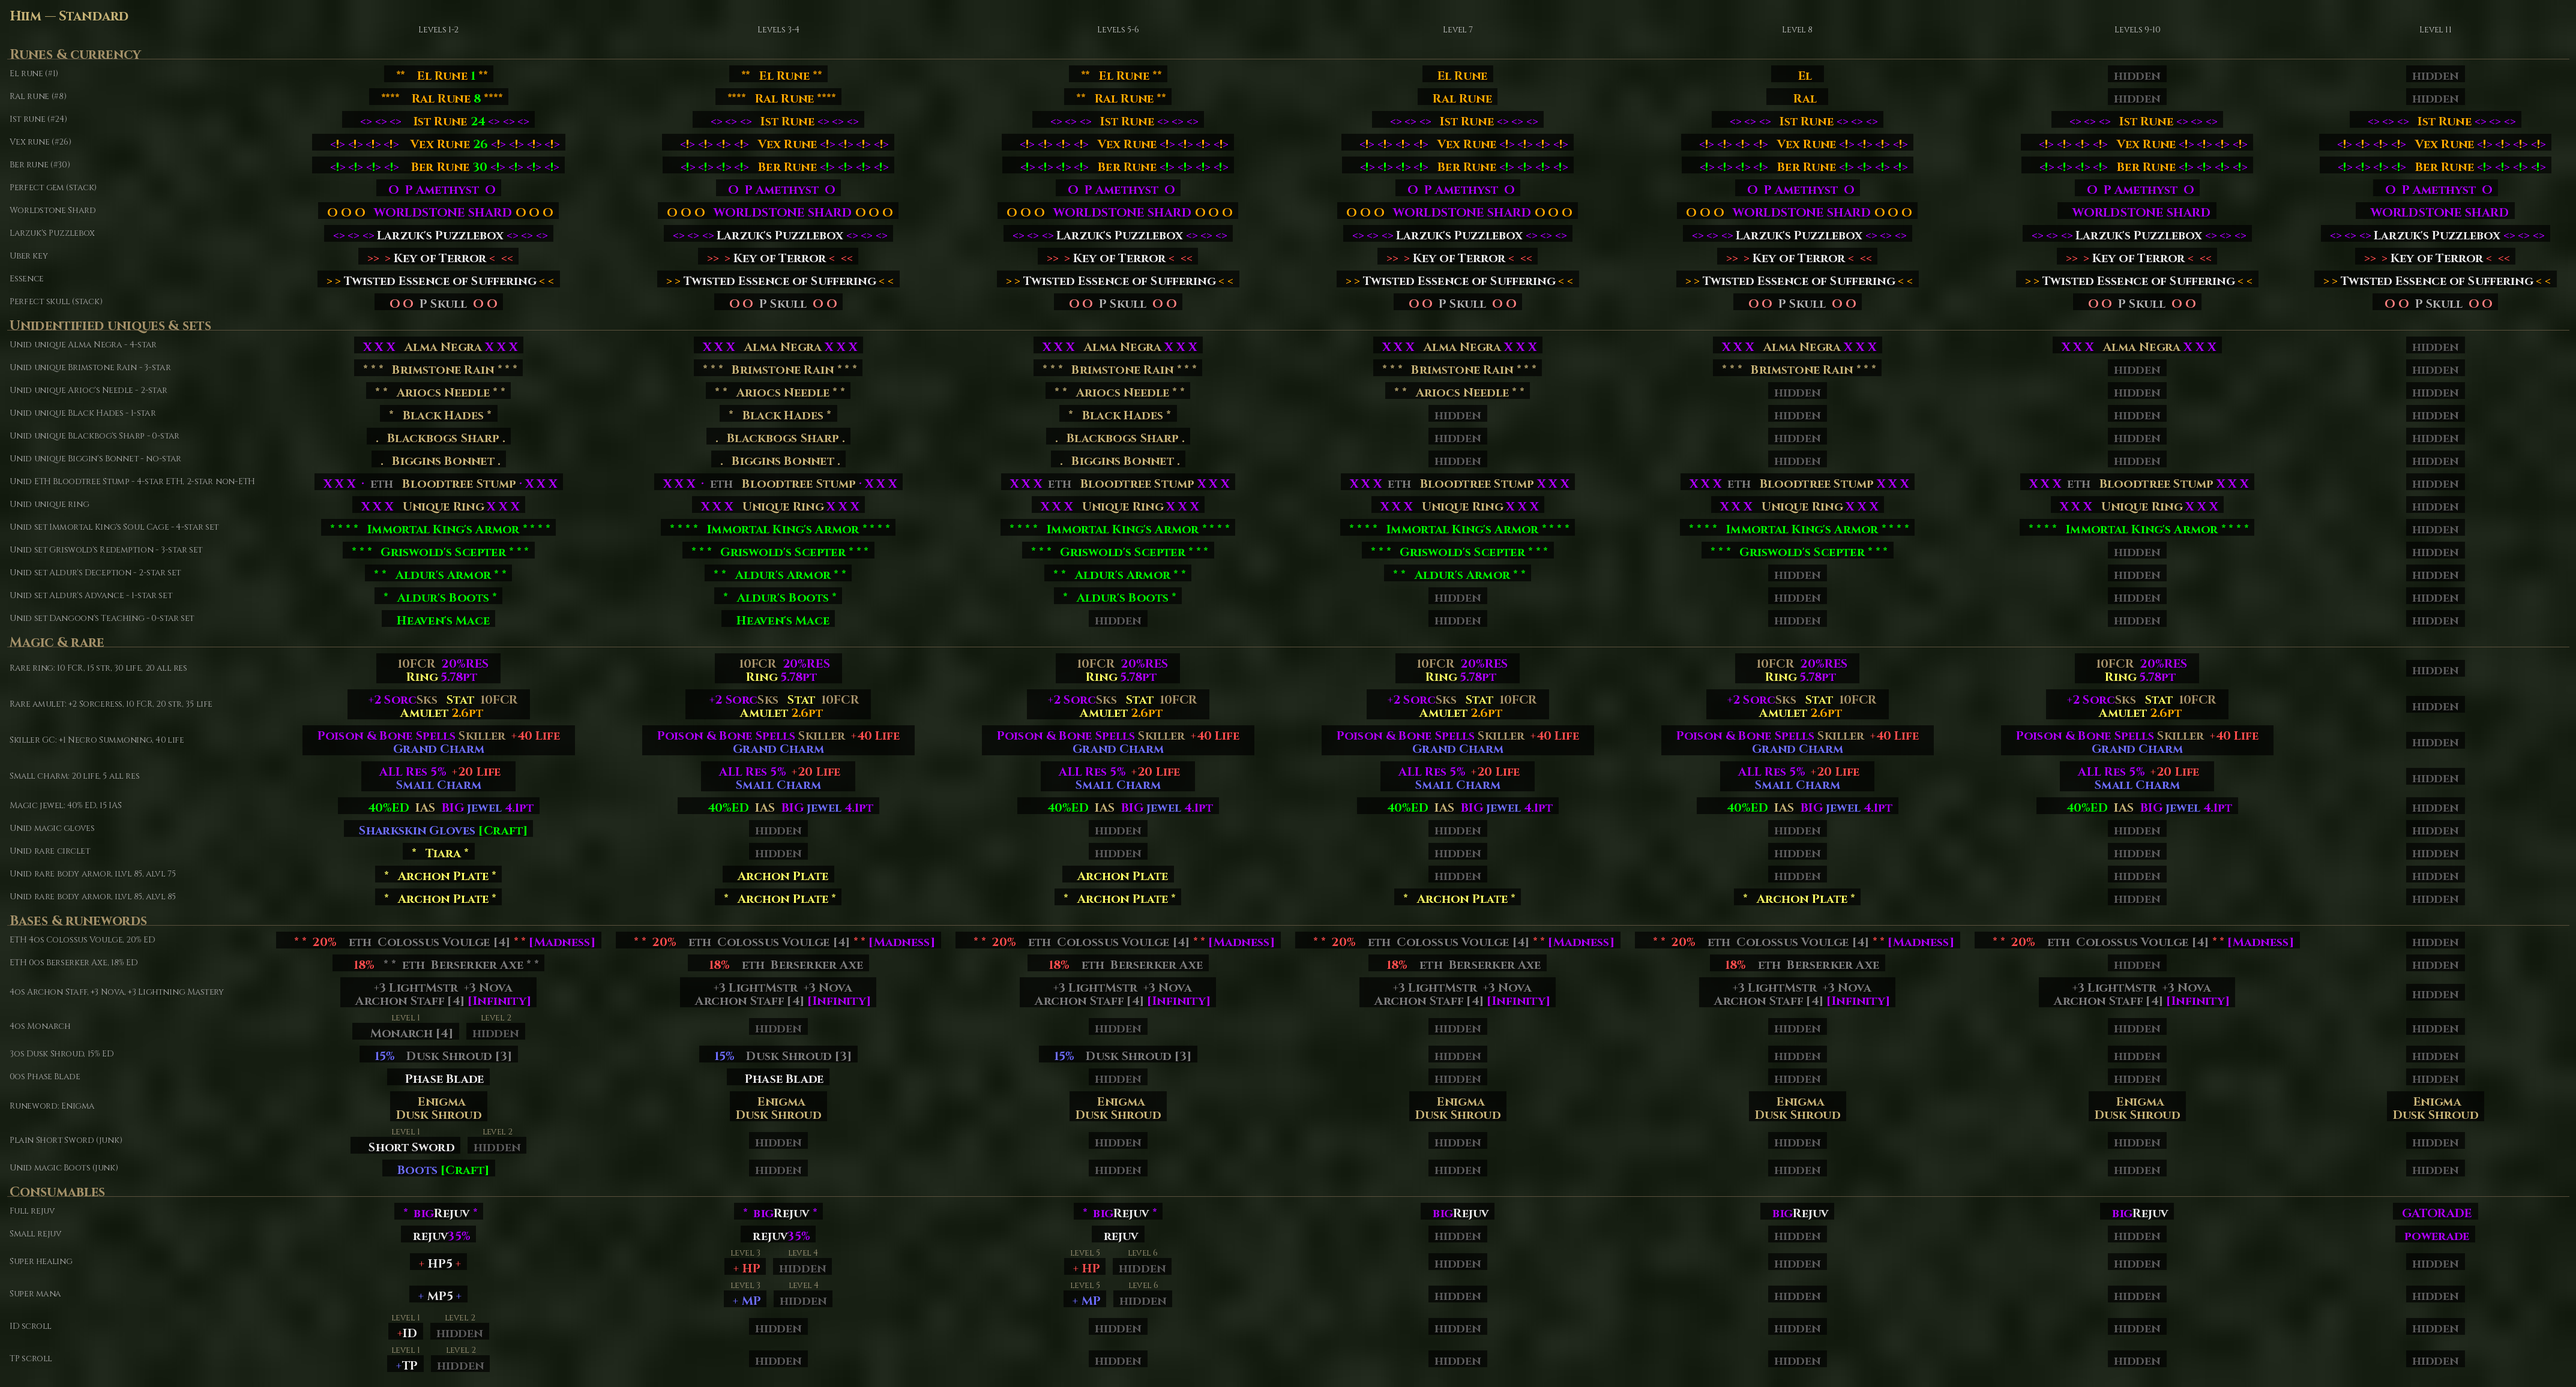
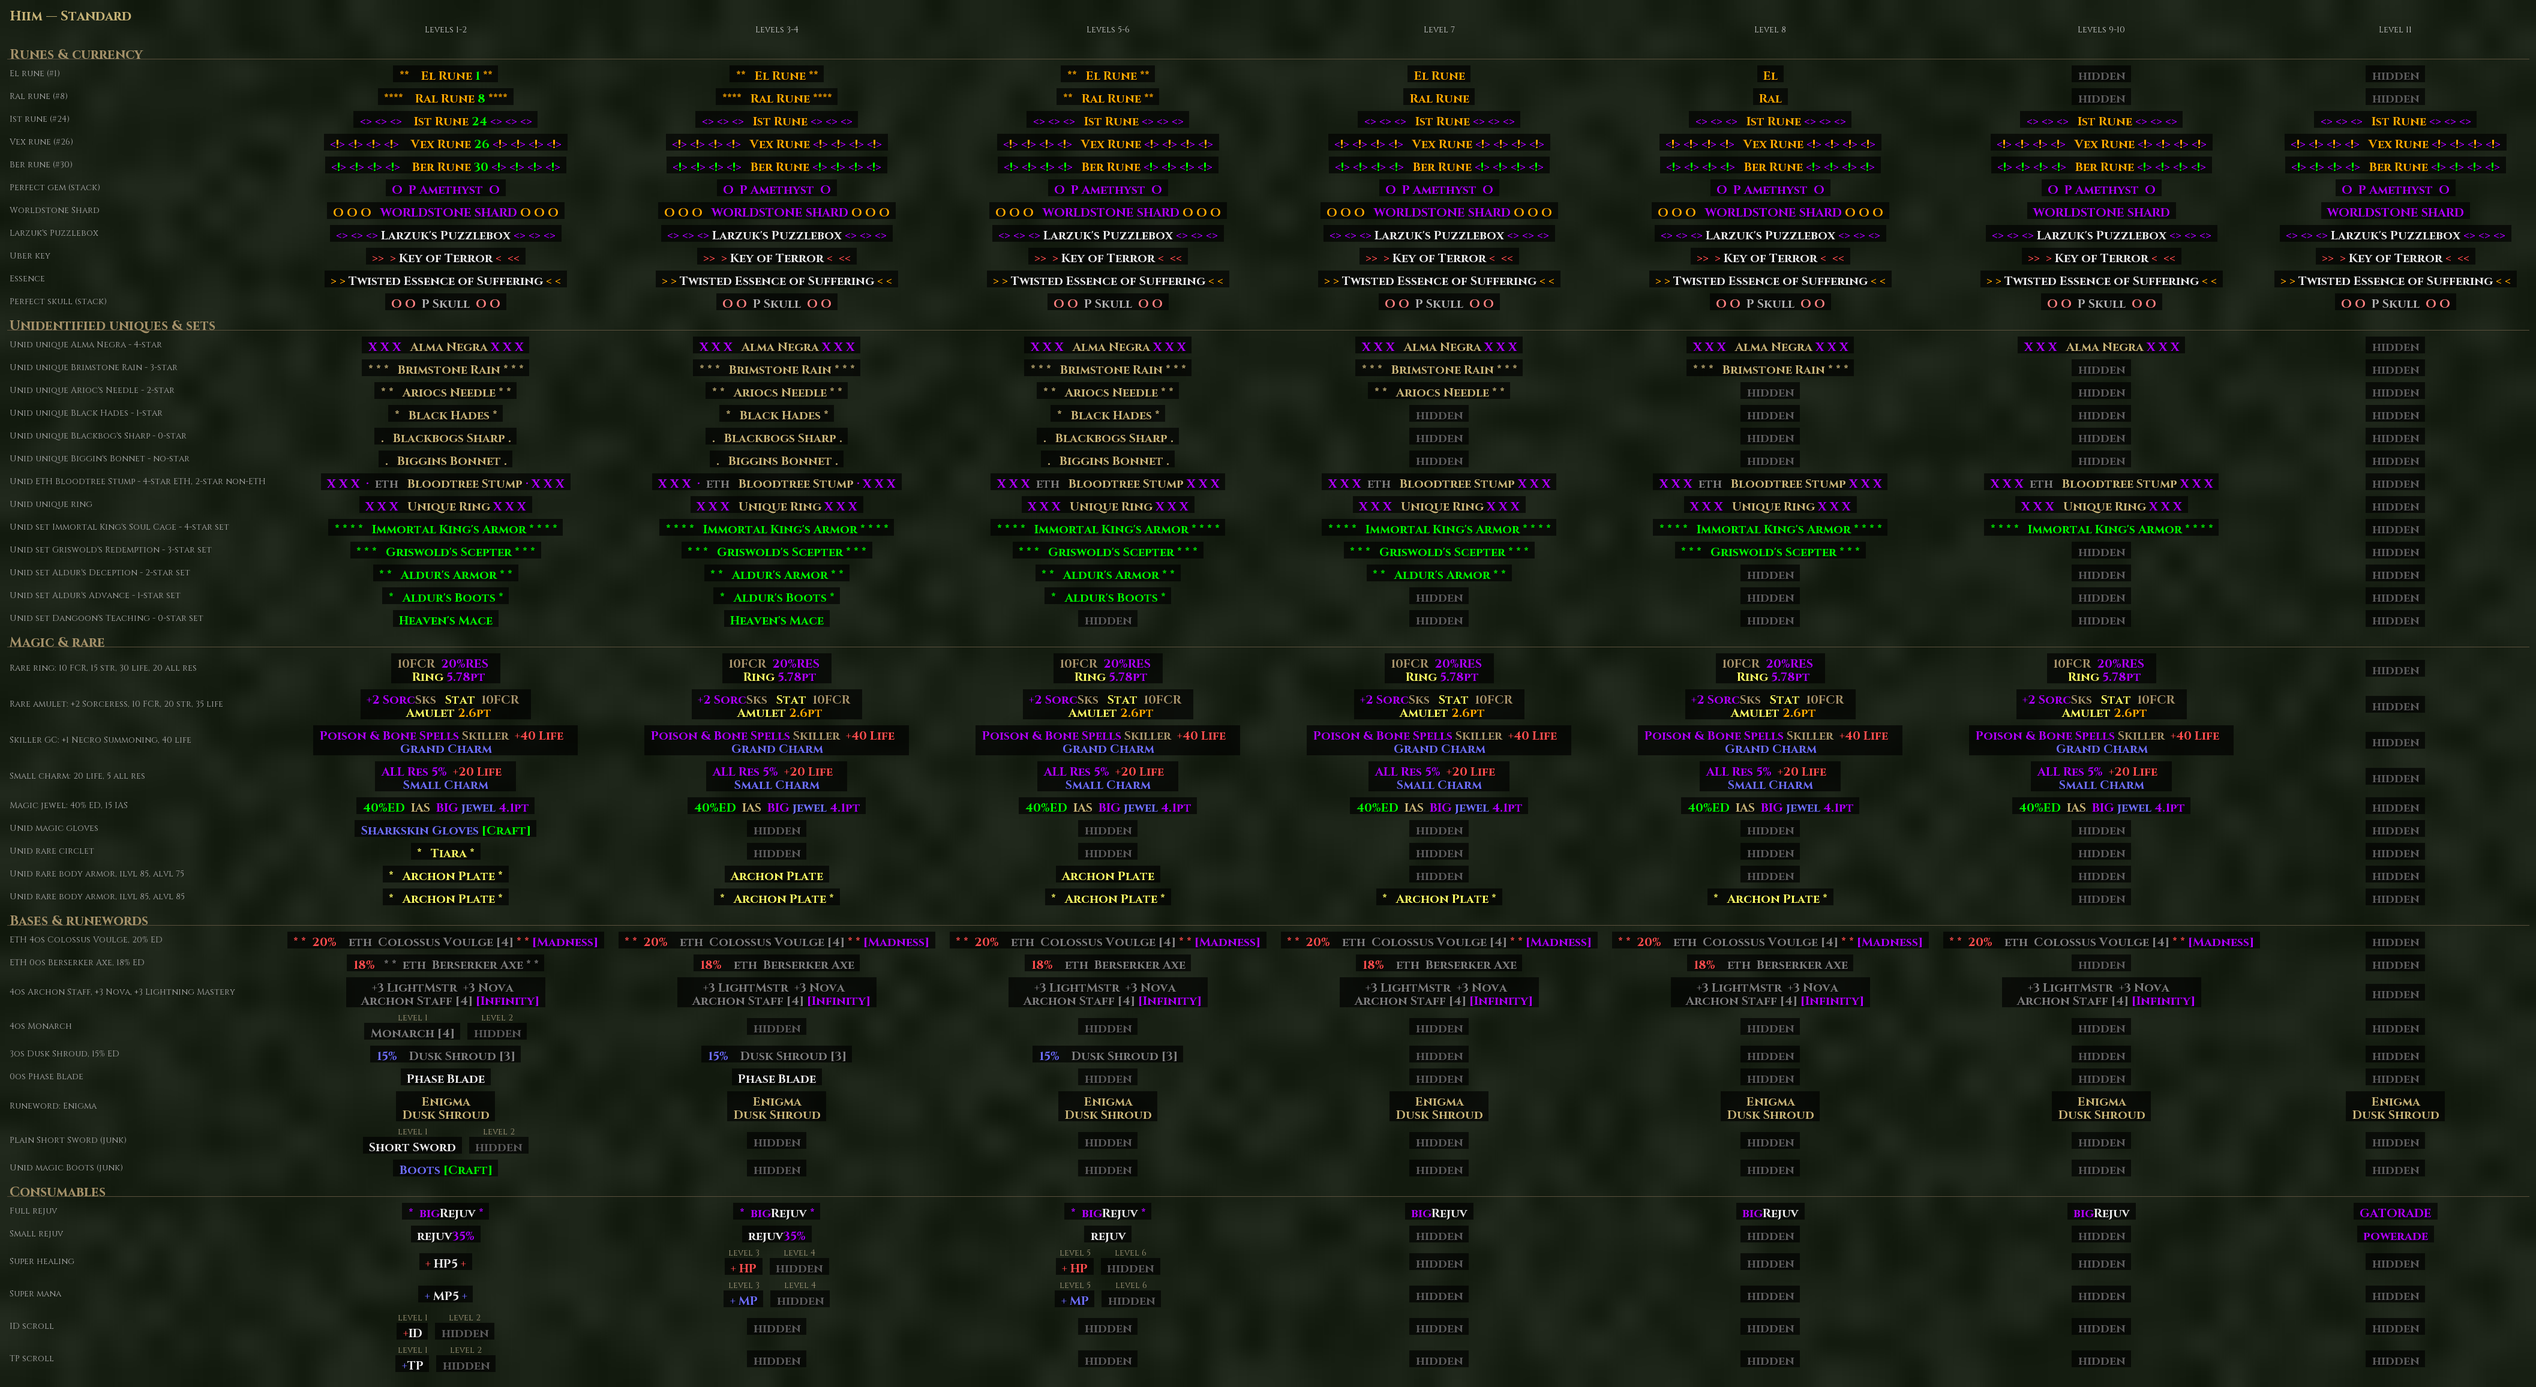
Renderer: trim() the finished label like the game does
Whitespace (spaces and line breaks) at the very start and end of a
label is dropped; spacing inside it stays.

Claude-Session: https://claude.ai/code/session_01LHu8aBXB58wuLsSi44Dtuf

diff --git a/builderreadme/filterrender/engine.py b/builderreadme/filterrender/engine.py
@@ -93,8 +93,33 @@ class Filter:
             name = new
             if not cont:
                 break
-        shown = matched is False or any(t.strip() for line in name for t, _ in line)
+        name = _trim(name)
+        shown = matched is False or bool(name)
         return name, border, shown
+
+
+def _trim(lines):
+    """The game trim()s the finished label: whitespace (spaces and line breaks) at its very
+    start and end is dropped; spacing inside it stays."""
+    flat = []  # (line index, text, rgb)
+    for k, line in enumerate(lines):
+        flat.extend((k, t, c) for t, c in line)
+        flat.append((k, "\n", None))
+    text = "".join(t for _, t, _ in flat)
+    lead = len(text) - len(text.lstrip())
+    keep = len(text.rstrip())
+    out, pos = [[]], 0
+    for _, t, c in flat:
+        lo, hi = max(lead - pos, 0), min(keep - pos, len(t))
+        pos += len(t)
+        if hi <= lo:
+            continue
+        piece = t[lo:hi]
+        if c is None:
+            out.append([])
+        else:
+            out[-1].append((piece, c))
+    return out if any(out) else []
 
 
 def item_color(item):
